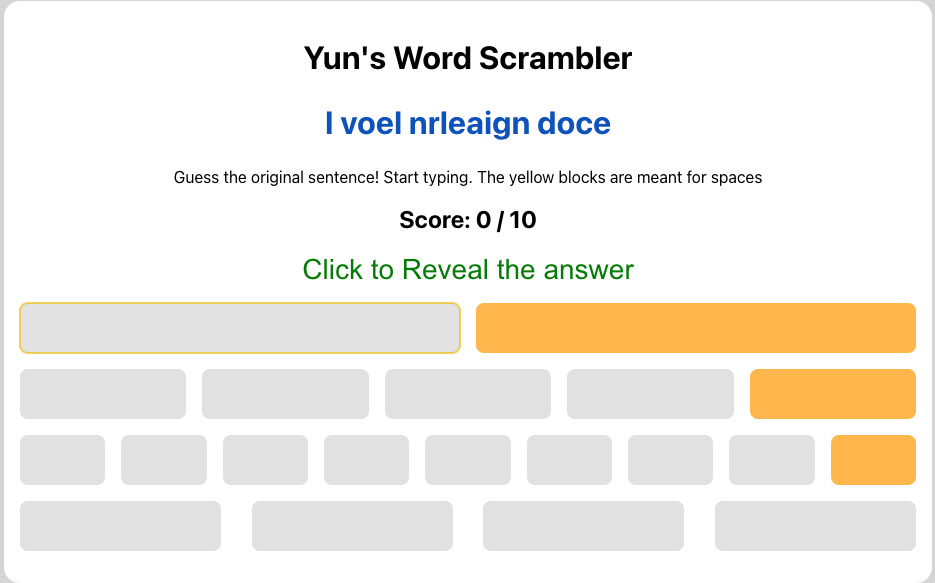
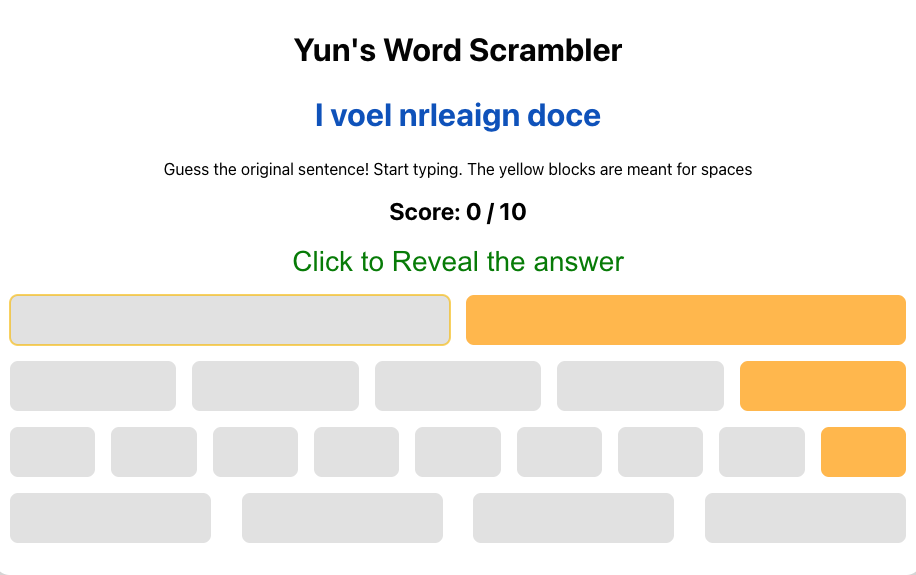
added pictures:

diff --git a/works.html b/works.html
@@ -123,7 +123,7 @@
                   </div>
                    <div class="col-sm-4">
                       <a href="./yuns-scrambler.html" class="black-image-project-hover">
-                        <img src="https://github.com/cyss0317/Personal-website/blob/main/assets/word-scrambler.jpg?raw=true" alt="Image" class="img-responsive">
+                        <img src="https://github.com/cyss0317/Personal-website/blob/main/assets/word-scramlber.png?raw=true" alt="Image" class="img-responsive">
                       </a>
                       <div class="card-container">
                         <h4>005/006</h4>
